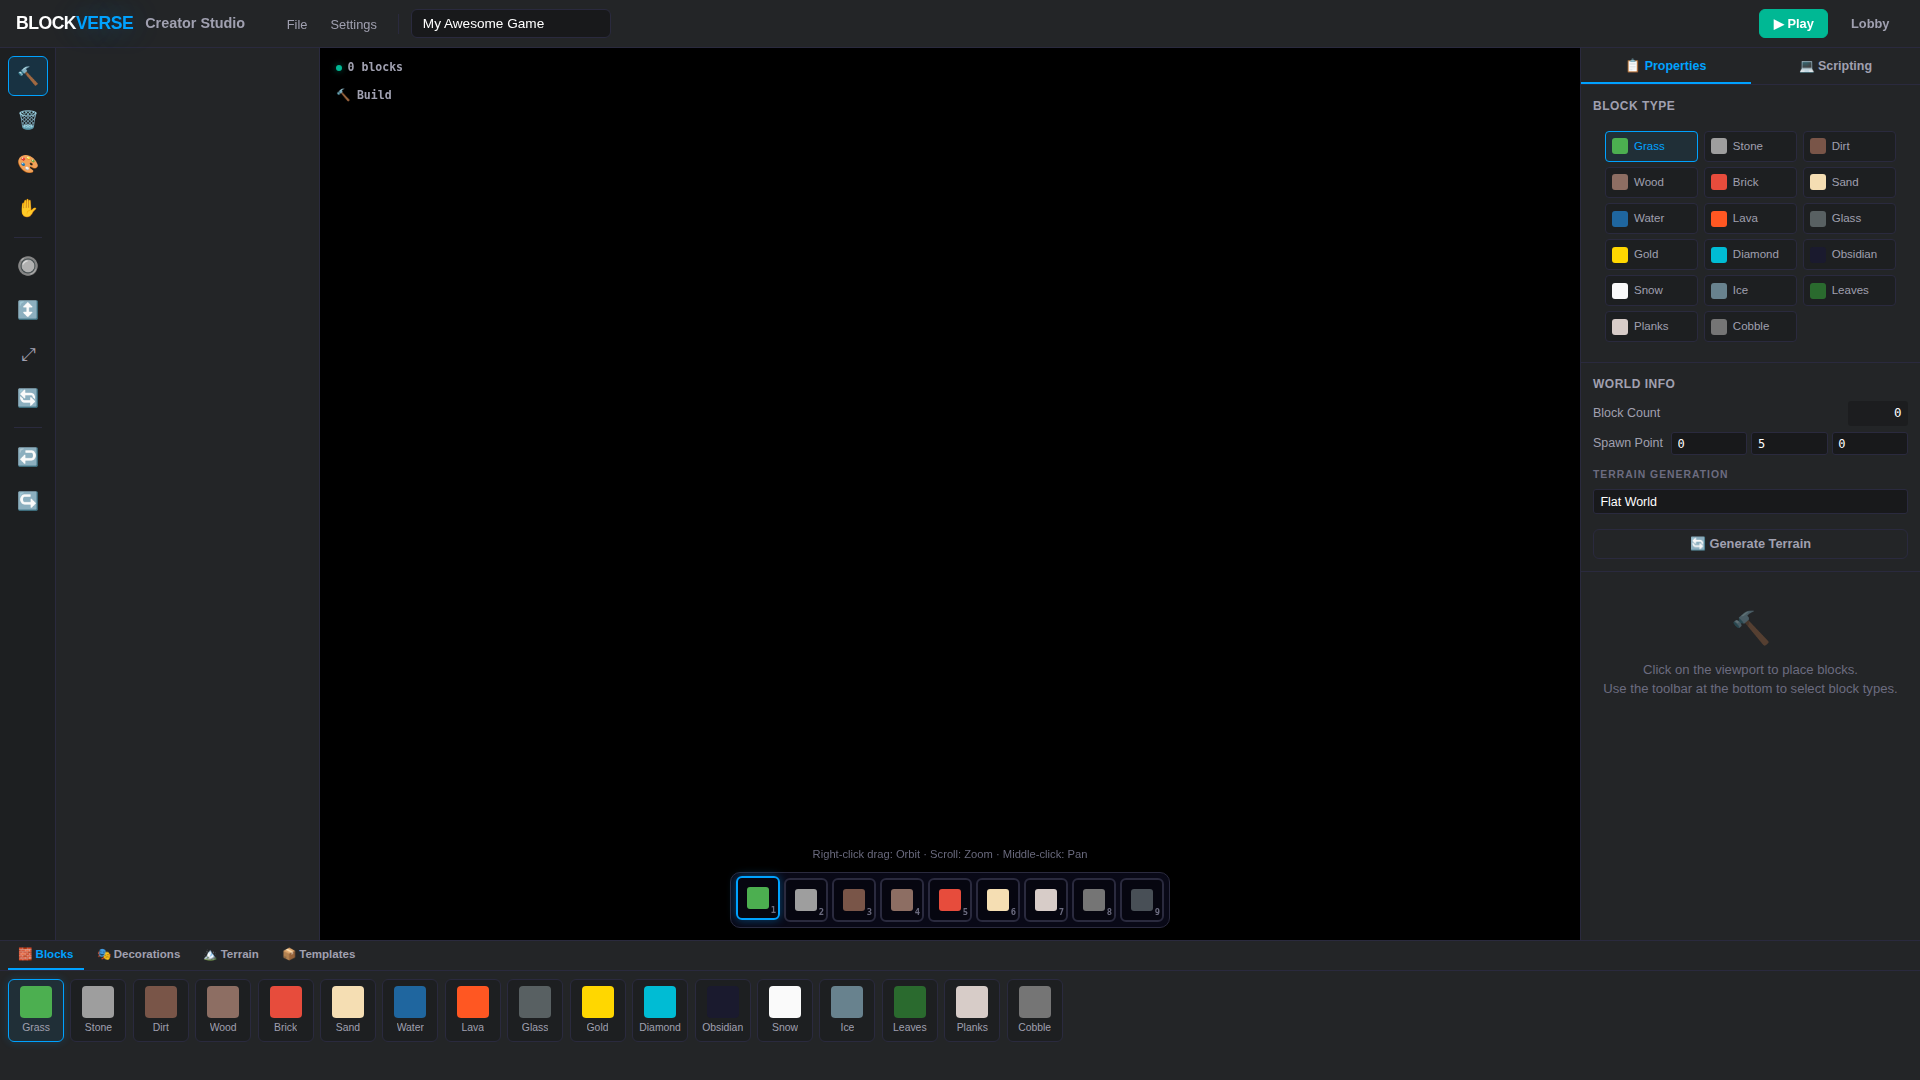
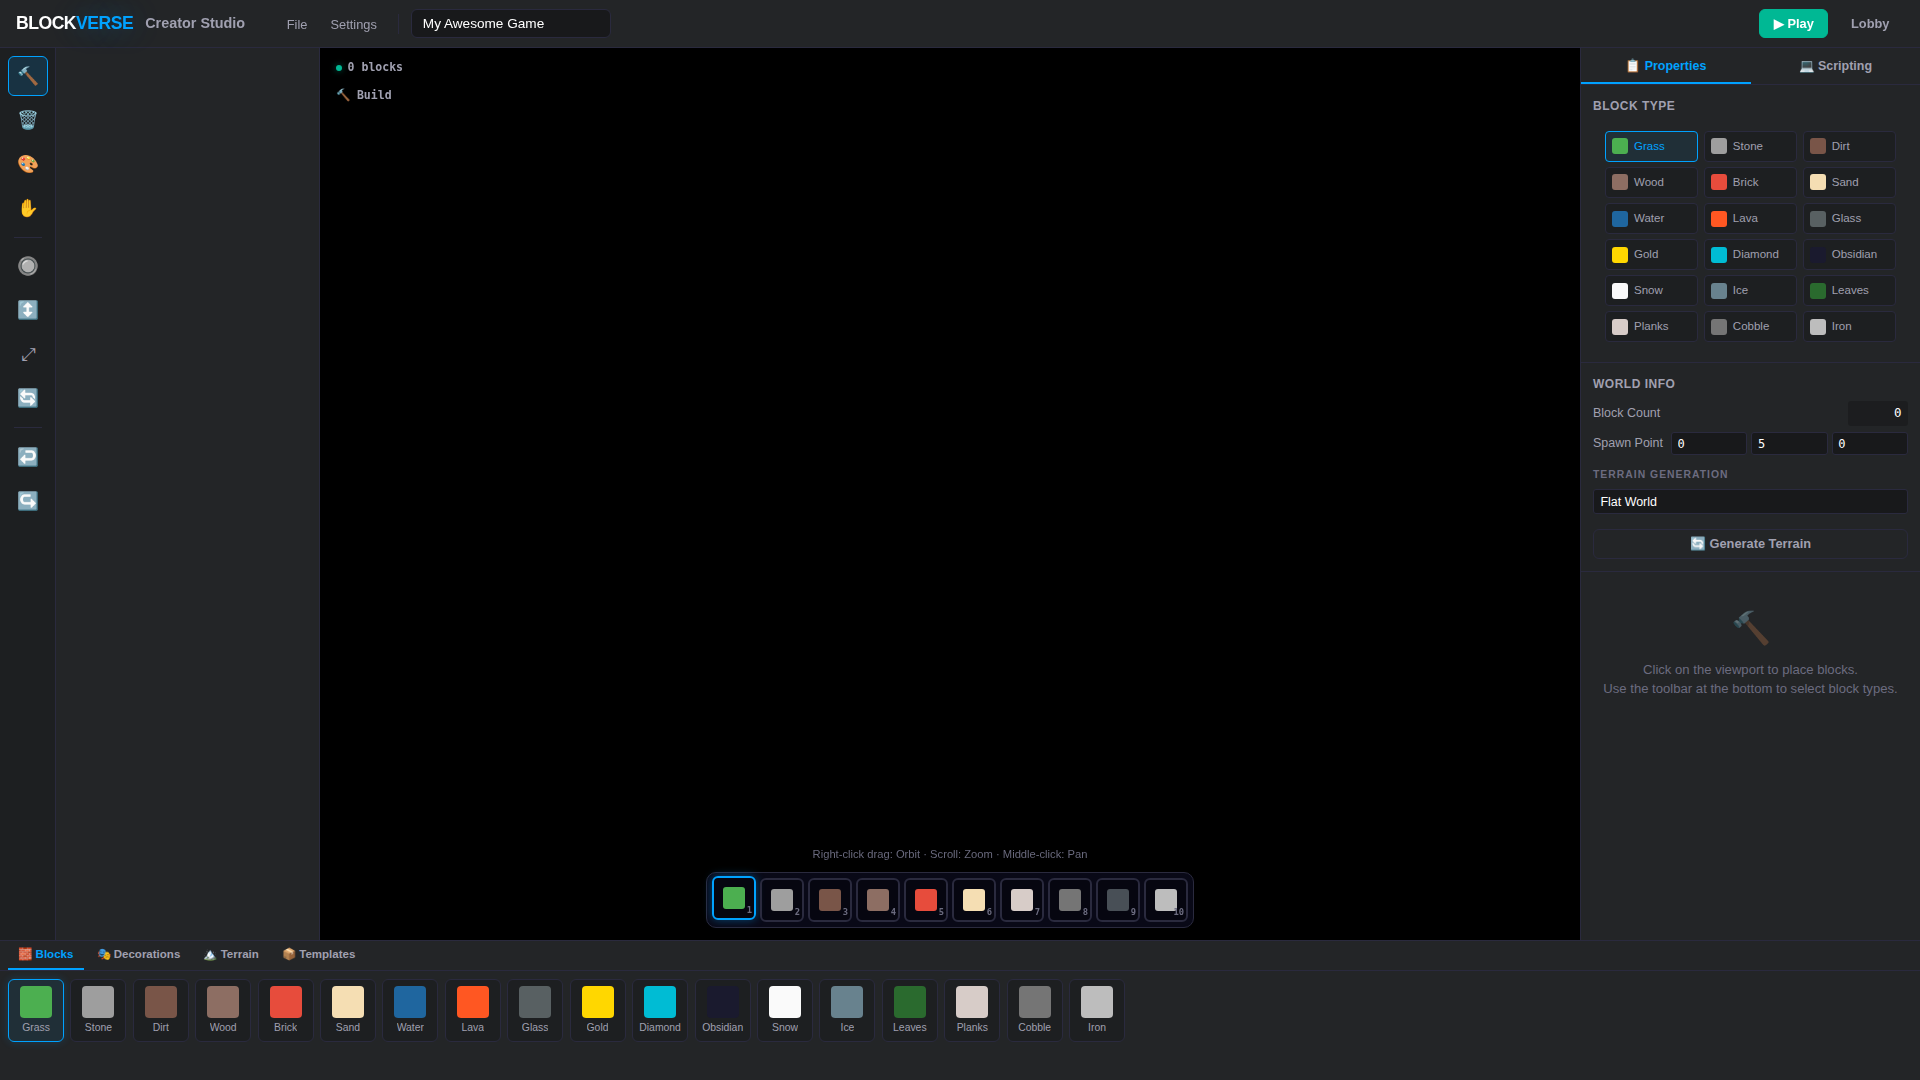
feat: optimize 3D rendering with frustum culling and enhanced shadows

Changed region(s): [[0.3438, 0.7944, 0.625, 0.8556], [0.9375, 0.275, 0.9688, 0.3056], [0.5625, 0.9167, 0.5938, 0.9472]]

diff --git a/js/block-renderer.js b/js/block-renderer.js
@@ -20,6 +20,13 @@ const BlockRenderer = (() => {
     let _tempMatrix = null;
     let _raycastResult = { x: 0, y: 0, z: 0, nx: 0, ny: 0, nz: 0, distance: 0 };
 
+    // Culling state
+    let _frustum = new THREE.Frustum();
+    let _projScreenMatrix = new THREE.Matrix4();
+    let _bbox = new THREE.Box3();
+    let _lastCullingPos = new THREE.Vector3();
+    let _lastCullingQuat = new THREE.Quaternion();
+
     // =============================================
     // INITIALIZATION
     // =============================================
@@ -40,7 +47,7 @@ const BlockRenderer = (() => {
             const mesh = new THREE.InstancedMesh(_geo, mat, MAX_INSTANCES);
             mesh.name = 'blocks_' + type;
             // Shadow optimization: transparent blocks don't cast meaningful shadows
-            mesh.castShadow = !config.transparent;
+            mesh.castShadow = config.castShadow !== undefined ? config.castShadow : !config.transparent;
             mesh.receiveShadow = true;
             mesh.frustumCulled = false; // Don't cull — we manage visibility ourselves
 
@@ -314,6 +321,66 @@ const BlockRenderer = (() => {
      * Rebuild visibility for all blocks using occlusion culling.
      * Batch process: clears all and re-adds only visible blocks.
      */
+    /**
+     * Advanced Frustum Culling: Hides blocks outside the camera frustum.
+     * Throttled to only run on significant camera changes.
+     */
+    function updateFrustumCulling(camera, blockMap) {
+        if (!camera || !blockMap) return;
+
+        // Throttle: only update if camera moved > 0.5 units or rotated > 5 degrees
+        const distSq = camera.position.distanceToSquared(_lastCullingPos);
+        const angle = camera.quaternion.angleTo(_lastCullingQuat);
+
+        if (distSq < 0.25 && angle < 0.1) return;
+
+        _lastCullingPos.copy(camera.position);
+        _lastCullingQuat.copy(camera.quaternion);
+
+        _projScreenMatrix.multiplyMatrices(camera.projectionMatrix, camera.matrixWorldInverse);
+        _frustum.setFromProjectionMatrix(_projScreenMatrix);
+
+        for (const type in _instances) {
+            const inst = _instances[type];
+            if (inst.count === 0) continue;
+
+            const arr = inst.mesh.instanceMatrix.array;
+            let changed = false;
+
+            for (let i = 0; i < inst.count; i++) {
+                const key = inst.data[i];
+                // Decode key: ((x + 64) << 16) | ((y & 0xFF) << 8) | (z + 64)
+                const x = ((key >> 16) & 0xFF) - 64;
+                const y = (key >> 8) & 0xFF;
+                const z = (key & 0xFF) - 64;
+
+                _bbox.min.set(x, y, z);
+                _bbox.max.set(x + 1, y + 1, z + 1);
+
+                const visible = _frustum.intersectsBox(_bbox);
+                const idx = i * 16;
+
+                // We use the first element of the matrix as a visibility flag (scale 0 vs scale 1)
+                const isCurrentlyVisible = arr[idx] !== 0;
+
+                if (visible && !isCurrentlyVisible) {
+                    // Restore position
+                    _tempMatrix.makeTranslation(x + 0.5, y + 0.5, z + 0.5);
+                    _tempMatrix.toArray(arr, idx);
+                    changed = true;
+                } else if (!visible && isCurrentlyVisible) {
+                    // Hide by zeroing the matrix
+                    for (let j = 0; j < 16; j++) arr[idx + j] = 0;
+                    changed = true;
+                }
+            }
+
+            if (changed) {
+                inst.mesh.instanceMatrix.needsUpdate = true;
+            }
+        }
+    }
+
     function rebuildVisibility(blockMap) {
         if (!blockMap) return;
 
@@ -479,6 +546,7 @@ const BlockRenderer = (() => {
         dispose,
         getStats,
         rebuildVisibility,
+        updateFrustumCulling,
         // Expose _instances for World.generateTerrain matrix flush
         get _instances() { return _instances; },
     };

diff --git a/creator.html b/creator.html
@@ -577,15 +577,18 @@
                 const sun = new THREE.DirectionalLight(0xfff0d0, 1.0);
                 sun.position.set(50, 80, 30);
                 sun.castShadow = true;
-                sun.shadow.mapSize.width = 1024;
-                sun.shadow.mapSize.height = 1024;
+                sun.shadow.mapSize.width = 2048; // Higher resolution
+                sun.shadow.mapSize.height = 2048;
                 sun.shadow.camera.near = 0.5;
-                sun.shadow.camera.far = 60;
-                sun.shadow.camera.left = -25;
-                sun.shadow.camera.right = 25;
-                sun.shadow.camera.top = 25;
-                sun.shadow.camera.bottom = -25;
+                sun.shadow.camera.far = 150;     // Increased for better coverage
+                sun.shadow.camera.left = -40;    // Wider frustum
+                sun.shadow.camera.right = 40;
+                sun.shadow.camera.top = 40;
+                sun.shadow.camera.bottom = -40;
+                sun.shadow.bias = -0.0005;       // Reduce shadow acne
                 this.scene.add(sun);
+                this.scene.add(sun.target);
+                this.sun = sun; // Store for updates
 
                 const fill = new THREE.DirectionalLight(0xc0d0ff, 0.15);
                 fill.position.set(-30, 40, -20);
@@ -2112,6 +2115,10 @@ Events.on("gameStart", async function() {
                 // Update play mode (first-person player movement)
                 this._updatePlayMode(clampedDelta);
 
+                if (typeof BlockRenderer !== 'undefined' && typeof World !== 'undefined' && this.camera) {
+                    BlockRenderer.updateFrustumCulling(this.camera, World.blockMap);
+                }
+
                 // Update highlight pulse (only in editor mode)
                 if (!this._isPlayMode && this._highlightMesh && this._highlightMesh.visible) {
                     const pulse = 0.5 + 0.3 * Math.sin(performance.now() * 0.006);
@@ -2120,6 +2127,14 @@ Events.on("gameStart", async function() {
 
                 // Update scripting engine (tweens)
                 ScriptEngine.update();
+
+                // Update sun to follow orbit target (Studio Mode) or Player (Play Mode)
+                if (this.sun) {
+                    const target = this._isPlayMode ? this._player.position : this._orbit.target;
+                    this.sun.position.set(target.x + 50, target.y + 80, target.z + 30);
+                    this.sun.target.position.copy(target);
+                    this.sun.target.updateMatrixWorld();
+                }
 
                 // Render
                 this.renderer.render(this.scene, this.camera);

diff --git a/js/config.js b/js/config.js
@@ -50,7 +50,7 @@ const BV = {
     // Block Types
     BLOCK_TYPES: {
         grass:   { name: 'Grass',   color: '#4CAF50', topColor: '#66BB6A', sideColor: '#795548', bottomColor: '#795548' },
-        stone:   { name: 'Stone',   color: '#9E9E9E' },
+        stone:   { name: 'Stone',   color: '#9E9E9E', castShadow: true },
         dirt:    { name: 'Dirt',    color: '#795548' },
         wood:    { name: 'Wood',    color: '#8D6E63' },
         brick:   { name: 'Brick',   color: '#E74C3C' },
@@ -66,10 +66,11 @@ const BV = {
         leaf:    { name: 'Leaves',  color: '#2E7D32', transparent: true, opacity: 0.8 },
         plank:   { name: 'Planks',  color: '#D7CCC8' },
         cobble:  { name: 'Cobble',  color: '#757575' },
+        iron:    { name: 'Iron',    color: '#BDBDBD', castShadow: true },
     },
 
     // Default Toolbar
-    DEFAULT_TOOLBAR: ['grass', 'stone', 'dirt', 'wood', 'brick', 'sand', 'plank', 'cobble', 'glass'],
+    DEFAULT_TOOLBAR: ['grass', 'stone', 'dirt', 'wood', 'brick', 'sand', 'plank', 'cobble', 'glass', 'iron'],
 
     // Avatar Part Types
     AVATAR_PARTS: {

diff --git a/js/main.js b/js/main.js
@@ -62,6 +62,9 @@ const App = (() => {
             _lastTime = now;
 
             if (typeof World !== 'undefined') World.update(dt);
+            if (typeof BlockRenderer !== 'undefined' && typeof World !== 'undefined' && Player && Player.camera) {
+                BlockRenderer.updateFrustumCulling(Player.camera, World.blockMap);
+            }
             if (typeof Player !== 'undefined' && Player.camera) Player.update(dt, World.blockMap);
             if (typeof Tools !== 'undefined' && Player && Player.camera) {
                 // Cursor-based highlight: follows mouse position, not screen center
